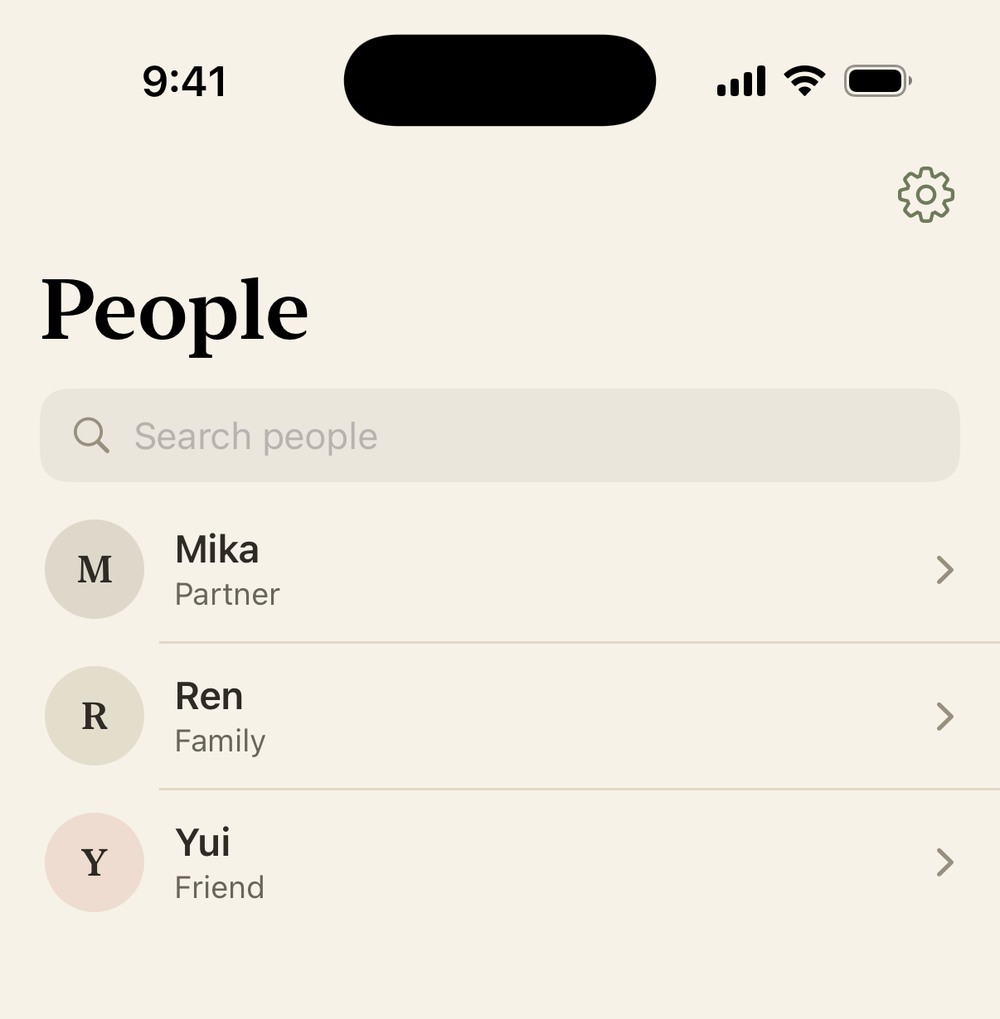
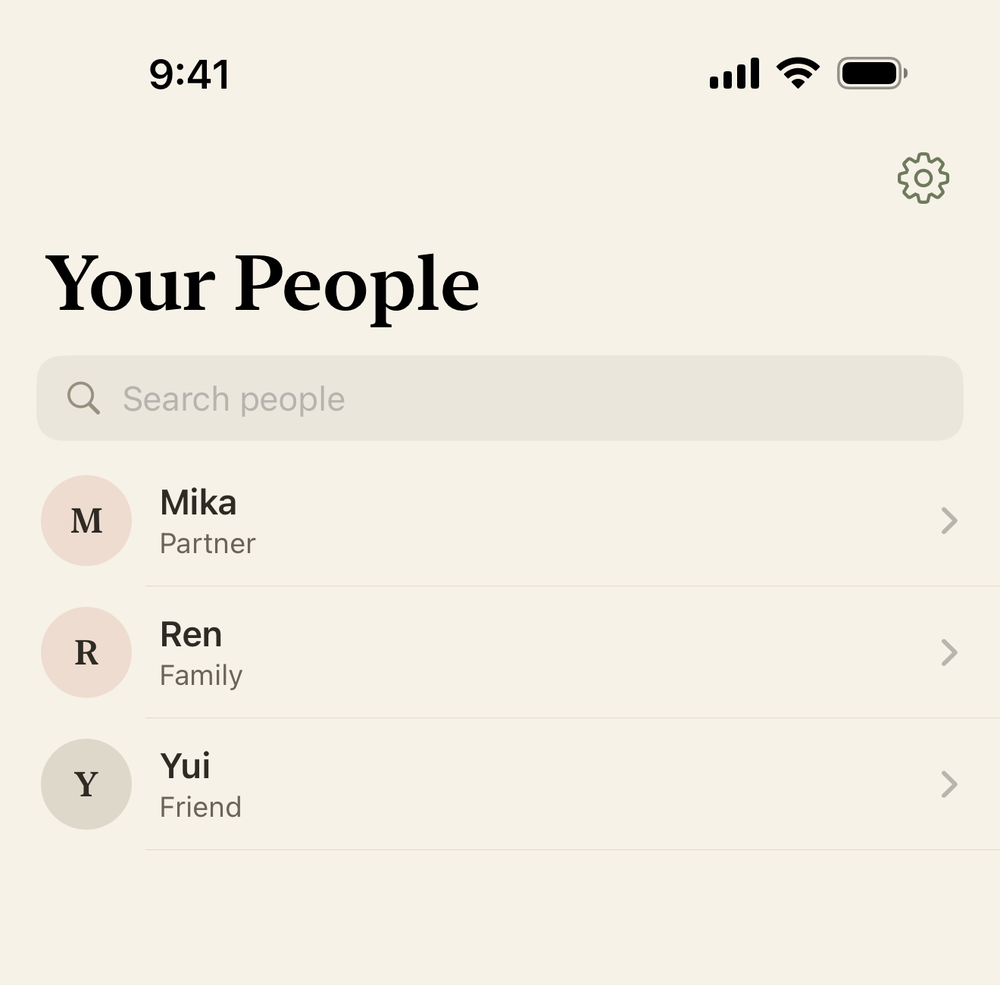
ja hero + real screenshots on press page + downloadable press kit
Hero now swaps en/ja with the language toggle (first real Japanese capture).
Press page shows current shipped-app screenshots and offers a self-hosted kit.
Zero third-party requests, as before.

diff --git a/press.html b/press.html
@@ -79,6 +79,12 @@
     border-radius:12px; padding:.6rem .9rem; color:var(--ink); }
   .assets img{ width:2.4rem; height:2.4rem; border-radius:22%; box-shadow:var(--shadow); }
   .assets small{ display:block; font-family:var(--mono); font-size:.66rem; color:var(--ink-faint); letter-spacing:.05em; }
+  .gallery{ display:grid; grid-template-columns:repeat(2,minmax(0,1fr)); gap:1rem; margin:1rem 0; }
+  .gallery figure{ margin:0; display:flex; flex-direction:column; align-items:center; overflow:hidden;
+    border:1px solid var(--line); border-radius:14px; background:var(--sage-tint); box-shadow:var(--shadow); }
+  .gallery img{ display:block; width:auto; max-width:100%; height:30rem; object-fit:contain; }
+  .gallery figcaption{ align-self:stretch; padding:.65rem .8rem; border-top:1px solid var(--line);
+    background:var(--paper); color:var(--ink-soft); font-size:.84rem; text-align:center; }
   .note{ font-size:.9rem; color:var(--ink-faint); }
 
   footer{ border-top:1px solid var(--line); padding-block:2.4rem; margin-top:3rem; }
@@ -86,7 +92,9 @@
   .foot .signoff{ font-family:var(--serif); font-style:italic; color:var(--ink-faint); }
   .foot .links{ margin-left:auto; display:flex; gap:1.2rem; }
   .foot a{ color:var(--ink-soft); }
-  @media (max-width:620px){ .pillars{ grid-template-columns:1fr; } dl.facts{ grid-template-columns:1fr; gap:.15rem; } dl.facts dd{ margin-bottom:.6rem; } }
+  @media (max-width:620px){ .pillars{ grid-template-columns:1fr; } .gallery{ grid-template-columns:1fr; }
+    .gallery img{ height:auto; max-height:34rem; } dl.facts{ grid-template-columns:1fr; gap:.15rem; }
+    dl.facts dd{ margin-bottom:.6rem; } }
 </style>
 </head>
 <body>
@@ -138,7 +146,7 @@
   <dl class="facts">
     <dt data-en="Name" data-ja="名称">Name</dt><dd>Endearly</dd>
     <dt data-en="Platform" data-ja="対応">Platform</dt><dd data-en="iPhone, iOS 17+ (iPad and Mac not at launch)" data-ja="iPhone、iOS 17以降（iPad・Mac は公開時点では非対応）">iPhone, iOS 17+ (iPad and Mac not at launch)</dd>
-    <dt data-en="Price" data-ja="価格">Price</dt><dd data-en="Free to start (first three people); one-time unlock for unlimited — no subscription. Final price set at launch." data-ja="はじめは無料（最初の3人まで）。人数無制限は一度きりのロック解除——サブスクなし。最終価格は公開時に確定。">Free to start (first three people); one-time unlock for unlimited — no subscription. Final price set at launch.</dd>
+    <dt data-en="Price" data-ja="価格">Price</dt><dd data-en="Free for the first three people; one-time US$4.99 unlock for unlimited — no subscription." data-ja="最初の3人までは無料。人数無制限は US$4.99 の買い切り——サブスクなし。">Free for the first three people; one-time US$4.99 unlock for unlimited — no subscription.</dd>
     <dt data-en="Privacy" data-ja="プライバシー">Privacy</dt><dd data-en="“Data Not Collected” — offline, on-device only, no account, no analytics." data-ja="「データを収集しない」——オフライン、端末内のみ、アカウントなし、アナリティクスなし。">“Data Not Collected” — offline, on-device only, no account, no analytics.</dd>
     <dt data-en="Markets" data-ja="対応地域">Markets</dt><dd data-en="English and Japanese at launch." data-ja="公開時点で、英語と日本語。">English and Japanese at launch.</dd>
     <dt data-en="Availability" data-ja="公開">Availability</dt><dd data-en="Arriving November 2026 on the App Store." data-ja="2026年11月、App Store にて公開予定。">Arriving November 2026 on the App Store.</dd>
@@ -146,8 +154,34 @@
   </dl>
 
   <h2 data-en="A line you can quote" data-ja="引用できる一文">A line you can quote</h2>
-  <blockquote data-en="“The only private, buy-once keepsake for the people you love — not a CRM, not a subscription, and your data never leaves your phone.”"
-     data-ja="「大切な人のための、唯一のプライベートな買い切りの手帳——CRMでも、サブスクでもなく、データは決して端末の外に出ない。」">“The only private, buy-once keepsake for the people you love — not a CRM, not a subscription, and your data never leaves your phone.”</blockquote>
+  <blockquote data-en="“A private, buy-once keepsake for the people you love — not a CRM, not a subscription, and your data never leaves your phone.”"
+     data-ja="「大切な人のための、プライベートな買い切りの手帳——CRMでも、サブスクでもなく、データは決して端末の外に出ない。」">“A private, buy-once keepsake for the people you love — not a CRM, not a subscription, and your data never leaves your phone.”</blockquote>
+
+  <h2 data-en="Screenshots" data-ja="スクリーンショット">Screenshots</h2>
+  <p data-en="Current English-language captures from the shipped app. Full-resolution files are included in the download below."
+     data-ja="現在のアプリを英語表示で撮影したスクリーンショットです。下のダウンロードには、フル解像度のファイルが含まれています。">Current English-language captures from the shipped app. Full-resolution files are included in the download below.</p>
+  <div class="gallery">
+    <figure>
+      <img src="assets/press/people.png" width="276" height="600" loading="lazy" decoding="async"
+           alt="Endearly people list screen" data-alt-en="Endearly people list screen" data-alt-ja="Endearly の人物一覧画面" />
+      <figcaption data-en="People" data-ja="人物一覧">People</figcaption>
+    </figure>
+    <figure>
+      <img src="assets/press/detail.png" width="276" height="600" loading="lazy" decoding="async"
+           alt="Endearly person details screen" data-alt-en="Endearly person details screen" data-alt-ja="Endearly の人物詳細画面" />
+      <figcaption data-en="Person details" data-ja="人物の詳細">Person details</figcaption>
+    </figure>
+    <figure>
+      <img src="assets/press/quickadd.png" width="495" height="600" loading="lazy" decoding="async"
+           alt="Endearly Quick Add screen" data-alt-en="Endearly Quick Add screen" data-alt-ja="Endearly のクイック追加画面" />
+      <figcaption data-en="Quick Add" data-ja="クイック追加">Quick Add</figcaption>
+    </figure>
+    <figure>
+      <img src="assets/press/unlock.png" width="276" height="600" loading="lazy" decoding="async"
+           alt="Endearly one-time unlock screen" data-alt-en="Endearly one-time unlock screen" data-alt-ja="Endearly の買い切りロック解除画面" />
+      <figcaption data-en="One-time unlock" data-ja="買い切りのロック解除">One-time unlock</figcaption>
+    </figure>
+  </div>
 
   <h2 data-en="Assets" data-ja="素材">Assets</h2>
   <div class="assets">
@@ -155,9 +189,12 @@
       <img src="assets/icon-512.png" alt="Endearly app icon" />
       <span><b data-en="App icon" data-ja="アプリアイコン">App icon</b><small>PNG · 1024×1024</small></span>
     </a>
+    <a href="press/endearly-press-kit.zip" download>
+      <span><b data-en="Download press kit" data-ja="プレスキットをダウンロード">Download press kit</b><small data-en="ZIP · screenshots, icon, fact sheet" data-ja="ZIP · スクリーンショット、アイコン、ファクトシート">ZIP · screenshots, icon, fact sheet</small></span>
+    </a>
   </div>
-  <p class="note" data-en="High-resolution screenshots and a short screen-recording of the app are available on request — email us and tell us your outlet and deadline."
-     data-ja="高解像度のスクリーンショットと短い画面録画は、ご請求に応じてお送りします——媒体名と締め切りを添えてメールください。">High-resolution screenshots and a short screen-recording of the app are available on request — email us and tell us your outlet and deadline.</p>
+  <p class="note" data-en="Download the high-resolution screenshots, app icon, and fact sheet above. For bespoke requests, email us with your outlet and deadline."
+     data-ja="高解像度のスクリーンショット、アプリアイコン、ファクトシートは上からダウンロードできます。個別のご依頼は、媒体名と締め切りを添えてメールください。">Download the high-resolution screenshots, app icon, and fact sheet above. For bespoke requests, email us with your outlet and deadline.</p>
 
   <h2 data-en="Contact" data-ja="お問い合わせ">Contact</h2>
   <p data-en="Press &amp; general, English or 日本語:" data-ja="取材・お問い合わせ（日本語・英語）:">Press &amp; general, English or 日本語:</p>
@@ -183,6 +220,9 @@
       document.querySelectorAll('[data-' + lang + ']').forEach(function (el) {
         var v = el.getAttribute('data-' + lang);
         if (v !== null) el.textContent = v.replace(/\\n/g, '\n');
+      });
+      document.querySelectorAll('[data-alt-' + lang + ']').forEach(function (el) {
+        el.setAttribute('alt', el.getAttribute('data-alt-' + lang));
       });
       buttons.forEach(function (b) {
         b.setAttribute('aria-pressed', String(b.getAttribute('data-lang') === lang));

diff --git a/index.html b/index.html
@@ -260,8 +260,12 @@
     </div>
 
     <div class="device reveal">
-      <img class="shot" src="assets/shot-people.png" width="1000" height="1019"
-           alt="A real screenshot of Endearly's People screen — a warm, paper-toned list of the people you're remembering, each shown with their relationship: Mika (Partner), Ren (Family), Yui (Friend)." />
+      <img class="shot" src="assets/shot-people.png"
+           data-src-en="assets/shot-people.png" data-src-ja="assets/shot-people-ja.png"
+           width="1000" height="985"
+           alt="Screenshot of Endearly's Your People screen showing Mika (Partner), Ren (Family), and Yui (Friend)."
+           data-alt-en="Screenshot of Endearly's Your People screen showing Mika (Partner), Ren (Family), and Yui (Friend)."
+           data-alt-ja="Endearlyの「大切な人たち」画面。ゆい（友人）、ミカ（パートナー）、蓮（家族）の3人が表示されています。" />
     </div>
   </section>
 
@@ -398,6 +402,11 @@
       document.querySelectorAll('[data-' + lang + ']').forEach(function (el) {
         var v = el.getAttribute('data-' + lang);
         if (v !== null) el.textContent = v.replace(/\\n/g, '\n');
+      });
+      ['src', 'alt'].forEach(function (attr) {
+        document.querySelectorAll('[data-' + attr + '-' + lang + ']').forEach(function (el) {
+          el.setAttribute(attr, el.getAttribute('data-' + attr + '-' + lang));
+        });
       });
       buttons.forEach(function (b) {
         b.setAttribute('aria-pressed', String(b.getAttribute('data-lang') === lang));